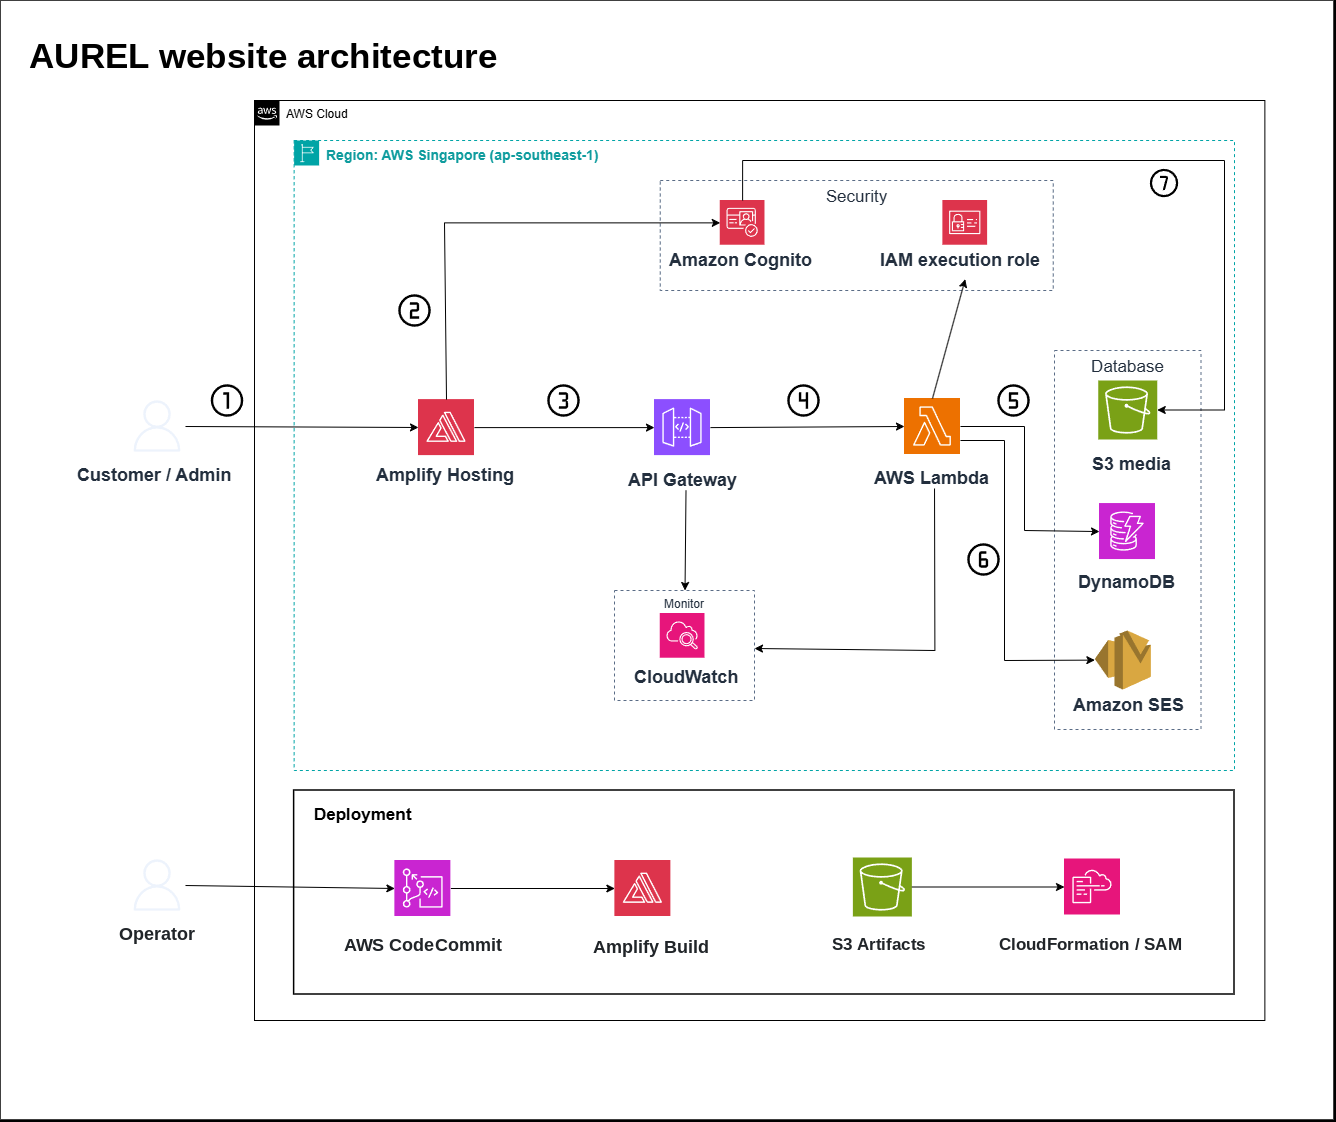
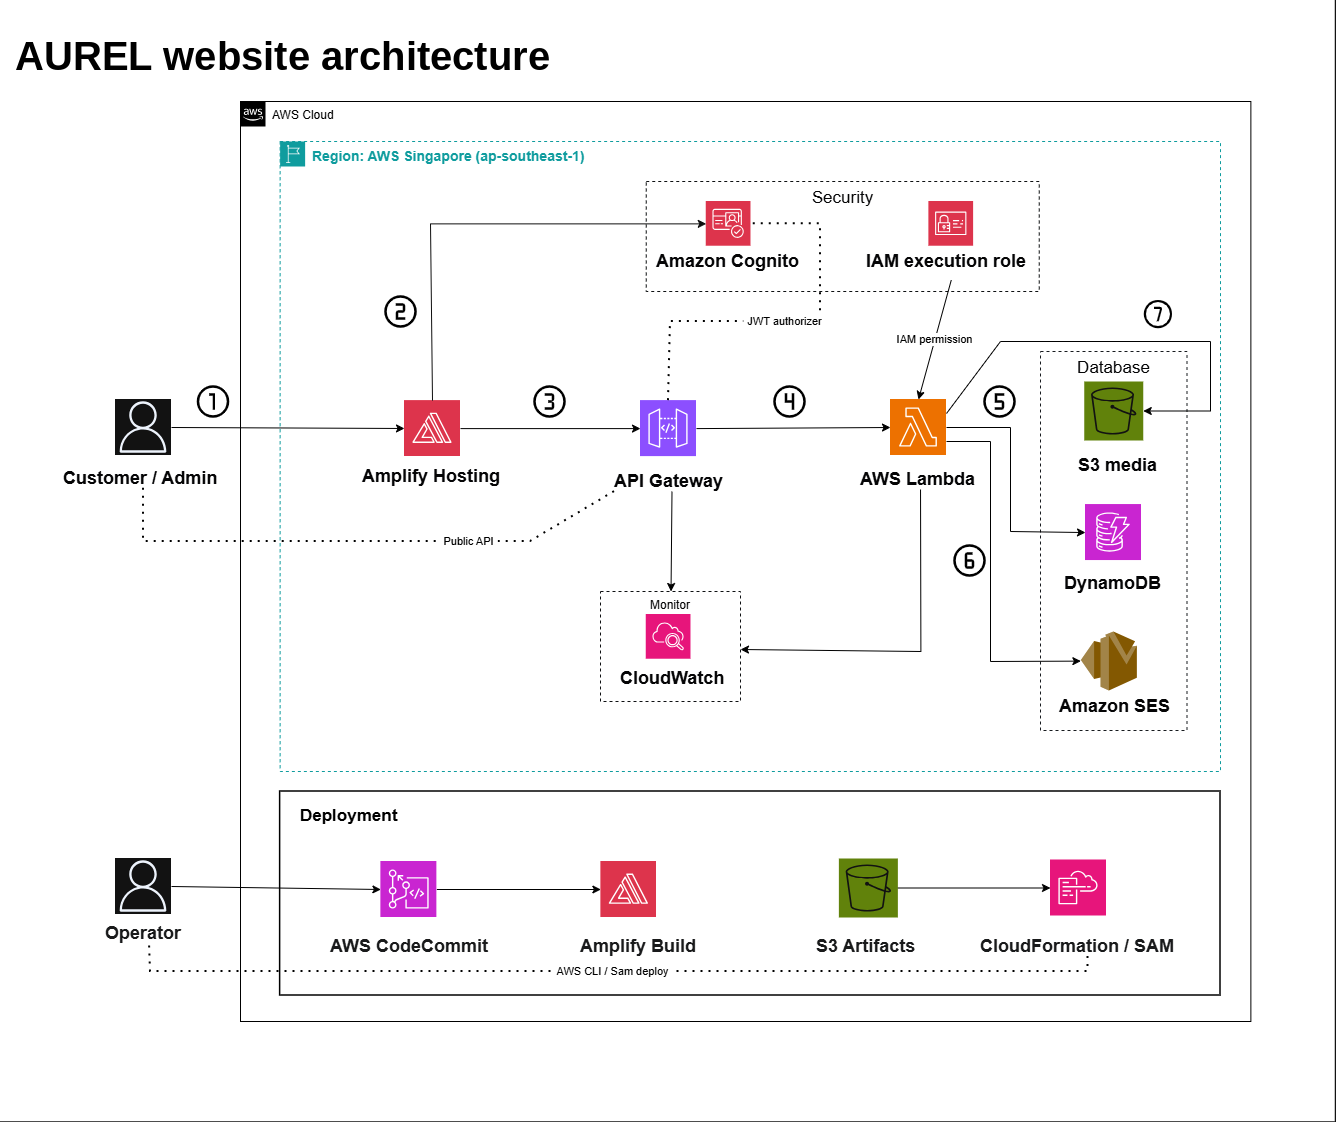
Update diagram, troubleshooting rows and photo evidence

diff --git a/content/5-Workshop/5.8-demo/_index.vi.md b/content/5-Workshop/5.8-demo/_index.vi.md
@@ -28,7 +28,9 @@ Mật khẩu admin không công khai trong báo cáo; người trình bày tự 
 7. Hỏi đáp: SES sandbox, MFA cho admin, hạn mức và hàng đợi email đề xuất.
 
 ### Minh chứng bổ sung
-Kết quả kiểm tra HTTP chi tiết và các tệp minh chứng demo được lưu trên trang báo cáo của nhóm: <https://report.d2rkhtb7c0k5r7.amplifyapp.com/vi/5-workshop/5.12-demo/>
+Bằng chứng ảnh: trang chủ AUREL đang chạy trên Amplify Hosting.
+
+<img src="/fcj-workshop-sieg/images/5-Workshop/5.8-demo/home-screenshot.jpg" alt="Trang chủ AUREL đang chạy trên Amplify Hosting" style="max-width:100%; width:900px;">
 
 ### Sự cố thường gặp và cách xử lý
 | Biểu hiện | Nguyên nhân có thể | Cách xử lý |
@@ -39,6 +41,8 @@ Kết quả kiểm tra HTTP chi tiết và các tệp minh chứng demo được
 | Đặt bàn đã lưu nhưng không có email | SES ở sandbox và người nhận chưa được xác minh | Xác minh địa chỉ hoặc dùng mailbox simulator |
 | Amplify job thất bại | Sai phiên bản Node hoặc thiếu biến | Đọc build log, dùng Node 22 và bảng biến môi trường |
 | Còn tài nguyên sau khi xóa stack | Chính sách Retain trên bảng, bucket và repository | Làm theo trang dọn dẹp |
+| SES sandbox | Gửi được không đồng nghĩa gửi cho mọi địa chỉ | Verify sender, thử mailbox simulator, lưu yêu cầu trước và ghi rõ sandbox |
+| Commit tài liệu vẫn kích hoạt build | Pipeline dựa branch, không chắc hiểu skip marker | Dừng job chỉ đổi docs; tách report repository khỏi app |
 
 ### Bài học rút ra
 - Ghi lại mọi output của stack ngay sau khi tạo; các bước sau cần dùng đến.

diff --git a/content/5-Workshop/5.8-demo/_index.md b/content/5-Workshop/5.8-demo/_index.md
@@ -28,7 +28,9 @@ The admin password is not published in this report; the presenter signs in on th
 7. Questions: SES sandbox, admin MFA, quotas and the proposed email queue.
 
 ### More evidence
-Detailed HTTP check results and the demo evidence files are kept on the group's report site: <https://report.d2rkhtb7c0k5r7.amplifyapp.com/vi/5-workshop/5.12-demo/>
+Photo evidence: the AUREL home page running on Amplify Hosting.
+
+<img src="/fcj-workshop-sieg/images/5-Workshop/5.8-demo/home-screenshot.jpg" alt="AUREL home page running on Amplify Hosting" style="max-width:100%; width:900px;">
 
 ### Common problems and fixes
 | Symptom | Likely cause | What to do |
@@ -39,6 +41,8 @@ Detailed HTTP check results and the demo evidence files are kept on the group's 
 | A reservation is saved but no email arrives | SES is in the sandbox and the recipient is not verified | Verify the address or use the mailbox simulator |
 | The Amplify job fails | Wrong Node version or missing variables | Read the build log, use Node 22 and the variable table |
 | Resources remain after deleting stacks | Retain policy on the table, buckets and repository | Follow the clean-up page |
+| SES sandbox | Being able to send does not mean sending to every address | Verify the sender, try the mailbox simulator, save the request first and state the sandbox limit |
+| Documentation commits still trigger a build | The pipeline follows the branch and may not honor skip markers | Stop jobs that change only documentation; keep the report repository separate from the app |
 
 ### Lessons learned
 - Write down every output of a stack right after creating it; later steps depend on them.

diff --git a/content/5-Workshop/5.2-architecture/_index.vi.md b/content/5-Workshop/5.2-architecture/_index.vi.md
@@ -19,7 +19,7 @@ pre: " <b> 5.2. </b> "
 **Luồng admin và media**
 - Trình duyệt gửi thông tin đăng nhập tới Next.js BFF, BFF xác thực với Cognito và giữ access token trong cookie HttpOnly, SameSite=Strict (Secure khi triển khai). BFF chuyển token trong header Authorization. JWT authorizer của API Gateway kiểm tra chữ ký, issuer, audience và thời hạn; Lambda kiểm tra thêm token_use=access và nhóm admin.
 - Ảnh món (JPEG, PNG hoặc WebP, tối đa 2 MB) đi qua BFF và API Gateway tới Lambda, Lambda lưu vào tiền tố menu-images/ của bucket S3 riêng tư và ghi đường dẫn vào DynamoDB. Khi khách xem thực đơn, Lambda cấp URL GET ký sẵn cho phiên bản ảnh hiện hành.
-- Trong sơ đồ, mũi tên 7 nối Cognito với S3 Media. Luồng thực tế là: Cognito cấp access token cho admin, Lambda ghi vào S3 bằng IAM execution role, và trình duyệt đọc ảnh bằng URL GET ký sẵn. Trang thử nghiệm riêng /admin/media dùng URL PUT (120 giây) và GET (900 giây) ký sẵn, tệp trong uploads/ hết hạn sau 30 ngày.
+- Mũi tên 7 trong sơ đồ: Lambda ghi ảnh món vào S3 media bucket riêng tư bằng IAM execution role, và trình duyệt đọc ảnh bằng URL GET ký sẵn. Trang thử nghiệm riêng /admin/media dùng URL PUT (120 giây) và GET (900 giây) ký sẵn, tệp trong uploads/ hết hạn sau 30 ngày.
 
 **Mô hình DynamoDB:** một bảng on-demand, bật mã hóa và khôi phục theo thời điểm.
 

diff --git a/content/5-Workshop/5.2-architecture/_index.md b/content/5-Workshop/5.2-architecture/_index.md
@@ -19,7 +19,7 @@ pre: " <b> 5.2. </b> "
 **Admin and media flow**
 - The browser sends the sign-in to the Next.js BFF, which authenticates with Cognito and keeps the access token in an HttpOnly, SameSite=Strict cookie (Secure when deployed). The BFF forwards it in the Authorization header. The API Gateway JWT authorizer checks signature, issuer, audience and expiry; Lambda also checks token_use=access and the admin group.
 - Dish photos (JPEG, PNG or WebP, up to 2 MB) go through the BFF and API Gateway to Lambda, which stores them under menu-images/ in a private S3 bucket and saves the path in DynamoDB. When a visitor views the menu, Lambda returns a signed GET URL for the current image version.
-- In the diagram, arrow 7 links Cognito to S3 Media. The real flow is: Cognito provides the admin access token, Lambda writes to S3 with its IAM execution role, and the browser reads images with the signed GET URL. A separate test page /admin/media uses signed PUT (120 s) and GET (900 s) URLs, and files under uploads/ expire after 30 days.
+- Arrow 7 in the diagram: Lambda writes dish images to the private S3 media bucket with its IAM execution role, and the browser reads them with a signed GET URL. A separate test page /admin/media uses signed PUT (120 s) and GET (900 s) URLs, and files under uploads/ expire after 30 days.
 
 **DynamoDB model:** one on-demand table with encryption and point-in-time recovery.
 
